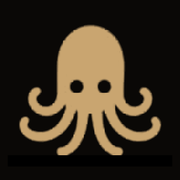
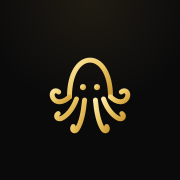
Restyle app: luxury gold, sharp type, floating buttons, new octopus mark
- Luxury gold (#EDC967) with metallic pill buttons and soft glow
- Inter Tight headings replace the serif; JetBrains Mono for labels
- Fine-line octopus logo (SVG) + spaced AYTOPUS wordmark; new app icons/favicons
- Floating glass bottom bar with a proof card tab
- Explore: floating search pill and segmented Members/Offers toggle
- Profile: payment-verified proof card under the name

Claude-Session: https://claude.ai/code/session_01SvkgXZEUx7UwqGcxiFyf4S

Changed region(s): [[0.0833, 0.1389, 0.9167, 0.8889]]

diff --git a/src/index.css b/src/index.css
@@ -2,21 +2,21 @@
 @tailwind components;
 @tailwind utilities;
 
-/* Aytopus design system — dark, editorial, gold accent */
+/* Aytopus design system — dark, sharp, luxury gold. Matches the proof cards. */
 
 @layer base {
   :root {
     /* Dark by default — :root and .dark are intentionally identical for v1 */
-    --background: 240 5% 6%;          /* #0F0F10 */
+    --background: 240 5% 4%;          /* #0A0A0B */
     --foreground: 40 20% 94%;         /* warm off-white */
 
-    --card: 240 4% 9%;                /* #161618 */
+    --card: 240 5% 8%;                /* #131315 */
     --card-foreground: 40 20% 94%;
 
     --popover: 240 5% 8%;
     --popover-foreground: 40 20% 94%;
 
-    --primary: 40 55% 52%;            /* burnished gold #C9A24A */
+    --primary: 44 79% 67%;            /* luxury gold #EDC967 */
     --primary-foreground: 240 6% 6%;
 
     --secondary: 240 4% 14%;
@@ -25,7 +25,7 @@
     --muted: 240 4% 12%;
     --muted-foreground: 40 8% 62%;
 
-    --accent: 40 55% 52%;
+    --accent: 44 79% 67%;
     --accent-foreground: 240 6% 6%;
 
     --destructive: 0 70% 48%;
@@ -33,9 +33,9 @@
 
     --border: 240 4% 16%;
     --input: 240 4% 14%;
-    --ring: 40 55% 52%;
+    --ring: 44 79% 67%;
 
-    --radius: 0.375rem;
+    --radius: 0.875rem;
 
     /* Tier metallic gradients */
     --tier-bronze-from: 25 55% 42%;
@@ -50,38 +50,39 @@
     --tier-diamond-to: 250 60% 55%;
 
     --shadow-elev: 0 1px 0 hsl(0 0% 100% / 0.03) inset, 0 8px 24px -12px hsl(0 0% 0% / 0.6);
-    --shadow-gold: 0 0 0 1px hsl(40 55% 52% / 0.35), 0 8px 30px -12px hsl(40 55% 52% / 0.35);
+    --shadow-gold: 0 0 0 1px hsl(44 79% 67% / 0.35), 0 8px 30px -12px hsl(44 79% 67% / 0.4);
+    --metal-gold: linear-gradient(135deg, #FBE7A6 0%, #EDC967 40%, #C8952F 100%);
 
     --sidebar-background: 240 5% 7%;
     --sidebar-foreground: 40 12% 80%;
-    --sidebar-primary: 40 55% 52%;
+    --sidebar-primary: 44 79% 67%;
     --sidebar-primary-foreground: 240 6% 6%;
     --sidebar-accent: 240 4% 12%;
     --sidebar-accent-foreground: 40 20% 94%;
     --sidebar-border: 240 4% 14%;
-    --sidebar-ring: 40 55% 52%;
+    --sidebar-ring: 44 79% 67%;
   }
 
   .dark {
-    --background: 240 5% 6%;
+    --background: 240 5% 4%;
     --foreground: 40 20% 94%;
-    --card: 240 4% 9%;
+    --card: 240 5% 8%;
     --card-foreground: 40 20% 94%;
     --popover: 240 5% 8%;
     --popover-foreground: 40 20% 94%;
-    --primary: 40 55% 52%;
+    --primary: 44 79% 67%;
     --primary-foreground: 240 6% 6%;
     --secondary: 240 4% 14%;
     --secondary-foreground: 40 20% 94%;
     --muted: 240 4% 12%;
     --muted-foreground: 40 8% 62%;
-    --accent: 40 55% 52%;
+    --accent: 44 79% 67%;
     --accent-foreground: 240 6% 6%;
     --destructive: 0 70% 48%;
     --destructive-foreground: 40 20% 96%;
     --border: 240 4% 16%;
     --input: 240 4% 14%;
-    --ring: 40 55% 52%;
+    --ring: 44 79% 67%;
   }
 }
 
@@ -113,8 +114,12 @@
     pointer-events: none;
   }
   h1, h2, h3, h4 {
-    font-family: 'Fraunces', 'Playfair Display', Georgia, serif;
-    letter-spacing: -0.01em;
+    font-family: 'Inter Tight', 'Inter', ui-sans-serif, system-ui, sans-serif;
+    letter-spacing: -0.02em;
+  }
+  body {
+    background-image: radial-gradient(ellipse 80% 40% at 50% -10%, hsl(42 35% 12% / 0.55), transparent 70%);
+    background-attachment: fixed;
   }
 
   /* iOS Safari zooms on focus when form-control font-size < 16px.

diff --git a/src/components/AppLayout.tsx b/src/components/AppLayout.tsx
@@ -1,7 +1,7 @@
 import { NavLink, useLocation, useNavigate } from "react-router-dom";
 import { ArrowLeft, Compass, MessagesSquare, User, LogIn, ShieldAlert, Store, Menu, Settings as SettingsIcon, Link as LinkIcon, UserCheck, LogOut, MessageCircle, FileText, Shield, Search, MessageSquare, MoreVertical, Share2, Bell, LifeBuoy } from "lucide-react";
 import { useAuth } from "@/hooks/useAuth";
-import { Logo } from "@/components/Logo";
+import { Logo, OctopusMark } from "@/components/Logo";
 import { cn } from "@/lib/utils";
 import { Button } from "@/components/ui/button";
 import { Sheet, SheetContent, SheetTrigger } from "@/components/ui/sheet";
@@ -373,7 +373,7 @@ export default function AppLayout({ children }: { children: ReactNode }) {
         aria-label="Primary"
         style={{ bottom: "calc(env(safe-area-inset-bottom) + 1rem)" }}
         className={cn(
-          "fixed inset-x-0 z-40 mx-auto flex w-[min(92vw,360px)] items-center justify-around rounded-full border border-white/5 bg-background/70 px-2 py-2 shadow-[0_10px_40px_-10px_hsl(0_0%_0%/0.7)] backdrop-blur-xl md:hidden",
+          "fixed inset-x-0 z-40 mx-auto flex w-[min(92vw,340px)] items-center justify-around rounded-full border border-white/[0.12] bg-[#161618]/80 px-3 py-2 shadow-[0_18px_40px_-10px_rgba(0,0,0,0.75)] backdrop-blur-2xl md:hidden",
           (inOpenConversation || isSubmitReview) && "hidden",
         )}
       >
@@ -381,6 +381,7 @@ export default function AppLayout({ children }: { children: ReactNode }) {
           const mobileTabs = [
             { to: "/messages", label: "Messages", icon: MessageSquare, authOnly: true, kind: "icon" as const },
             { to: "/explore", label: "Search", icon: Search, end: true, kind: "icon" as const },
+            { to: "/settings/proof", label: "Proof card", authOnly: true, kind: "mark" as const },
             { to: user ? profilePath : "/auth", label: "Profile", kind: "avatar" as const },
           ].filter((t) => !(t.authOnly && !user));
 
@@ -399,8 +400,8 @@ export default function AppLayout({ children }: { children: ReactNode }) {
             >
               {({ isActive }) => (
                 <>
-                  {isActive && tab.kind === "icon" && (
-                    <span className="absolute inset-1 rounded-full bg-primary/15" aria-hidden />
+                  {isActive && tab.kind !== "avatar" && (
+                    <span className="absolute bottom-0.5 left-1/2 h-1 w-1 -translate-x-1/2 rounded-full bg-primary" aria-hidden />
                   )}
                   {tab.kind === "avatar" ? (
                     <span
@@ -415,6 +416,8 @@ export default function AppLayout({ children }: { children: ReactNode }) {
                         <span>{(profile?.username ?? "?").slice(0, 1)}</span>
                       )}
                     </span>
+                  ) : tab.kind === "mark" ? (
+                    <OctopusMark className="relative h-[26px] w-[26px]" strokeWidth={5} />
                   ) : (
                     <tab.icon className="relative h-[22px] w-[22px]" strokeWidth={1.75} />
                   )}

diff --git a/src/pages/Explore.tsx b/src/pages/Explore.tsx
@@ -291,13 +291,13 @@ export default function Explore() {
       {/* Search */}
       <div ref={searchBoxRef} className="relative mx-auto max-w-2xl">
         <form onSubmit={onSearch} className="relative">
-          <Search className="pointer-events-none absolute left-3 top-1/2 h-4 w-4 -translate-y-1/2 text-muted-foreground" />
+          <Search className="pointer-events-none absolute left-5 top-1/2 h-4 w-4 -translate-y-1/2 text-muted-foreground" />
           <Input
             value={query}
             onChange={(e) => { setQuery(e.target.value); setLiveOpen(true); }}
             onFocus={() => { if (query.trim().length > 0) setLiveOpen(true); }}
             placeholder="Search coaches, providers, and offers..."
-            className="h-12 pl-9"
+            className="h-[52px] rounded-full border-white/[0.12] bg-card pl-12 pr-5 shadow-[0_12px_30px_-8px_rgba(0,0,0,0.6)]"
             aria-label="Search coaches, providers, and offers"
             autoComplete="off"
           />
@@ -375,7 +375,7 @@ export default function Explore() {
       </div>
 
       {/* Sub-tabs: People / Offers */}
-      <div className="mx-auto mt-4 flex max-w-2xl items-center justify-center gap-1 border-b border-border">
+      <div className="mx-auto mt-4 flex max-w-sm items-center gap-1 rounded-full border border-white/[0.08] bg-card p-1">
         <TopTab active={subTab === "people"} onClick={() => setSubTab("people")} label="People" />
         <TopTab active={subTab === "offers"} onClick={() => setSubTab("offers")} label="Offers" />
       </div>
@@ -491,12 +491,13 @@ function TopTab({ active, onClick, label }: { active: boolean; onClick: () => vo
       onClick={onClick}
       aria-pressed={active}
       className={cn(
-        "relative -mb-px px-5 py-2.5 text-sm font-semibold transition-colors",
-        active ? "text-primary" : "text-muted-foreground hover:text-foreground",
+        "h-9 flex-1 rounded-full text-sm font-semibold transition-colors",
+        active
+          ? "border border-primary/35 bg-primary/[0.12] text-primary"
+          : "border border-transparent text-muted-foreground hover:text-foreground",
       )}
     >
-      <span className="font-display tracking-wide">{label}</span>
-      {active && <span aria-hidden className="absolute inset-x-2 -bottom-px h-[2px] bg-primary" />}
+      <span className="font-display">{label}</span>
     </button>
   );
 }

diff --git a/src/components/ui/button.tsx b/src/components/ui/button.tsx
@@ -5,21 +5,23 @@ import { cva, type VariantProps } from "class-variance-authority";
 import { cn } from "@/lib/utils";
 
 const buttonVariants = cva(
-  "inline-flex items-center justify-center gap-2 whitespace-nowrap rounded-md text-sm font-medium ring-offset-background transition-colors focus-visible:outline-none focus-visible:ring-2 focus-visible:ring-ring focus-visible:ring-offset-2 disabled:pointer-events-none disabled:opacity-50 [&_svg]:pointer-events-none [&_svg]:size-4 [&_svg]:shrink-0",
+  "inline-flex items-center justify-center gap-2 whitespace-nowrap rounded-full text-sm font-medium ring-offset-background transition-all active:translate-y-px focus-visible:outline-none focus-visible:ring-2 focus-visible:ring-ring focus-visible:ring-offset-2 disabled:pointer-events-none disabled:opacity-50 [&_svg]:pointer-events-none [&_svg]:size-4 [&_svg]:shrink-0",
   {
     variants: {
       variant: {
-        default: "bg-primary text-primary-foreground hover:bg-primary/90",
+        default:
+          "bg-[linear-gradient(135deg,#FBE7A6_0%,#EDC967_40%,#C8952F_100%)] font-semibold text-[#0A0A0B] shadow-[0_8px_24px_-8px_rgba(237,201,103,0.5)] hover:brightness-105 hover:shadow-[0_10px_30px_-8px_rgba(237,201,103,0.6)]",
         destructive: "bg-destructive text-destructive-foreground hover:bg-destructive/90",
-        outline: "border border-input bg-background hover:bg-accent hover:text-accent-foreground",
-        secondary: "bg-secondary text-secondary-foreground hover:bg-secondary/80",
-        ghost: "hover:bg-accent hover:text-accent-foreground",
+        outline:
+          "border border-white/[0.12] bg-white/[0.03] text-foreground shadow-[0_8px_24px_-12px_rgba(0,0,0,0.7)] backdrop-blur hover:border-white/20 hover:bg-white/[0.06]",
+        secondary: "border border-white/[0.06] bg-secondary text-secondary-foreground hover:bg-secondary/80",
+        ghost: "hover:bg-white/[0.06] hover:text-foreground",
         link: "text-primary underline-offset-4 hover:underline",
       },
       size: {
-        default: "h-10 px-4 py-2",
-        sm: "h-9 rounded-md px-3",
-        lg: "h-11 rounded-md px-8",
+        default: "h-11 px-5 py-2",
+        sm: "h-9 rounded-full px-4",
+        lg: "h-12 rounded-full px-8 text-[15px]",
         icon: "h-10 w-10",
       },
     },

diff --git a/src/components/Logo.tsx b/src/components/Logo.tsx
@@ -1,13 +1,31 @@
 import { cn } from "@/lib/utils";
-import logoUrl from "@/assets/aytopus-logo.png";
 
-export function Logo({ className }: { className?: string }) {
+/** The Aytopus octopus, redrawn as a fine-line mark to match the proof card's security pattern. */
+export function OctopusMark({ className, strokeWidth = 4.2 }: { className?: string; strokeWidth?: number }) {
   return (
-    <img
-      src={logoUrl}
-      alt="Aytopus"
-      className={cn("h-7 w-auto md:h-9 select-none", className)}
-      draggable={false}
-    />
+    <svg viewBox="0 0 100 100" className={className} aria-hidden="true">
+      <g fill="none" stroke="currentColor" strokeWidth={strokeWidth} strokeLinecap="round" strokeLinejoin="round">
+        <path d="M31 53 C31 31 40 19 50 19 C60 19 69 31 69 53" />
+        <path d="M31 53 C25 59 18 59 15.5 53.5 C13.5 49 17.5 45.5 21 48.5" />
+        <path d="M37.5 55 C34 65 28 71 23.5 73 C19.5 74.5 17.5 70.5 20.5 68.5" />
+        <path d="M45 56 C44 67 42 77 38 83 C36 86 32.5 84 34.5 80.5" />
+        <path d="M55 56 C56 67 58 77 62 83 C64 86 67.5 84 65.5 80.5" />
+        <path d="M62.5 55 C66 65 72 71 76.5 73 C80.5 74.5 82.5 70.5 79.5 68.5" />
+        <path d="M69 53 C75 59 82 59 84.5 53.5 C86.5 49 82.5 45.5 79 48.5" />
+      </g>
+      <circle cx="43.5" cy="44" r="2.8" fill="currentColor" />
+      <circle cx="56.5" cy="44" r="2.8" fill="currentColor" />
+    </svg>
+  );
+}
+
+export function Logo({ className, wordmark = true }: { className?: string; wordmark?: boolean }) {
+  return (
+    <span role="img" aria-label="Aytopus" className={cn("flex w-fit select-none items-center gap-2", className)}>
+      <OctopusMark className="h-7 w-7 text-primary md:h-8 md:w-8" />
+      {wordmark && (
+        <span className="mr-[-0.34em] text-[13px] font-bold tracking-[0.34em] text-foreground md:text-sm">AYTOPUS</span>
+      )}
+    </span>
   );
 }

diff --git a/index.html b/index.html
@@ -5,7 +5,7 @@
     <meta name="viewport" content="width=device-width, initial-scale=1.0, viewport-fit=cover" />
 <title>Aytopus – Your testimonials, verified.    </title><meta name="description" content="Free for coaches and service providers. Send one link, clients leave a review, and Aytopus verifies they actually paid you." />
     <meta name="author" content="Aytopus" />
-    <meta name="theme-color" content="#0F0F10" />
+    <meta name="theme-color" content="#0A0A0B" />
     <meta name="apple-mobile-web-app-capable" content="yes" />
     <meta name="apple-mobile-web-app-status-bar-style" content="black-translucent" />
     <meta name="mobile-web-app-capable" content="yes" />
@@ -36,7 +36,7 @@
 
     <link rel="preconnect" href="https://fonts.googleapis.com" />
     <link rel="preconnect" href="https://fonts.gstatic.com" crossorigin />
-    <link href="https://fonts.googleapis.com/css2?family=Fraunces:ital,opsz,wght@0,9..144,400;0,9..144,500;0,9..144,600;0,9..144,700;0,9..144,800;0,9..144,900;1,9..144,400;1,9..144,500&family=Inter:wght@300;400;500;600;700&display=swap" rel="stylesheet" />
+    <link href="https://fonts.googleapis.com/css2?family=Inter:wght@300;400;500;600;700&family=Inter+Tight:wght@400;500;600;700&family=JetBrains+Mono:wght@400;500&display=swap" rel="stylesheet" />
   </head>
 
   <body>

diff --git a/src/components/ProfileScoreCard.tsx b/src/components/ProfileScoreCard.tsx
@@ -1,0 +1,30 @@
+// Shows a coach's payment-verified proof card on their profile, if they have a public one.
+// Tapping it opens the full record at /v/:slug.
+import { useEffect, useState } from "react";
+import { useNavigate } from "react-router-dom";
+import { ProofScoreCard } from "@/components/ProofScoreCard";
+import { proofDb } from "@/lib/proof";
+import type { ProofCard } from "@/lib/proofScore";
+
+export function ProfileScoreCard({ ownerId, name, subtitle }: { ownerId: string; name: string; subtitle?: string | null }) {
+  const [card, setCard] = useState<ProofCard | null>(null);
+  const navigate = useNavigate();
+
+  useEffect(() => {
+    let cancelled = false;
+    (async () => {
+      const { data } = await proofDb.from("proof_cards").select("*").eq("owner_id", ownerId).eq("visibility", "public").maybeSingle();
+      if (!cancelled) setCard((data as ProofCard) ?? null);
+    })();
+    return () => {
+      cancelled = true;
+    };
+  }, [ownerId]);
+
+  if (!card) return null;
+  return (
+    <div className="mx-auto mt-5 flex max-w-[360px] justify-center">
+      <ProofScoreCard card={card} name={name} subtitle={subtitle} onToggle={() => navigate(`/v/${card.slug}`)} />
+    </div>
+  );
+}

diff --git a/src/pages/Profile.tsx b/src/pages/Profile.tsx
@@ -1,4 +1,5 @@
 import { useEffect, useMemo, useRef, useState } from "react";
+import { ProfileScoreCard } from "@/components/ProfileScoreCard";
 import { Link, useParams, useSearchParams } from "react-router-dom";
 import { usePageMeta } from "@/lib/usePageMeta";
 import { supabase } from "@/integrations/supabase/client";
@@ -481,6 +482,9 @@ export default function Profile() {
           @{profile.username}
         </p>
 
+        {/* Payment-verified proof card */}
+        <ProfileScoreCard ownerId={profile.id} name={providerDisplayName} subtitle={profile.service_category} />
+
 
 
         {/* Owner-only points progress */}
@@ -542,7 +546,7 @@ export default function Profile() {
 
 
         {/* Trust card — 3 stats */}
-        <div className="mt-5 grid grid-cols-3 items-center gap-2 rounded-lg border border-primary/30 bg-card/60 px-2 py-4 sm:px-4">
+        <div className="mt-5 grid grid-cols-3 items-center gap-2 rounded-2xl border border-white/[0.08] bg-card px-2 py-4 shadow-[0_12px_30px_-12px_rgba(0,0,0,0.6)] sm:px-4">
           <TrustStat
             value={avg > 0 ? avg.toFixed(1) : "—"}
             label="Avg rating"

diff --git a/tailwind.config.ts b/tailwind.config.ts
@@ -8,7 +8,8 @@ export default {
     container: { center: true, padding: "1.5rem", screens: { "2xl": "1400px" } },
     extend: {
       fontFamily: {
-        display: ["Fraunces", "Playfair Display", "Georgia", "serif"],
+        display: ["Inter Tight", "Inter", "ui-sans-serif", "system-ui", "sans-serif"],
+        mono: ["JetBrains Mono", "ui-monospace", "SFMono-Regular", "monospace"],
         sans: ["Inter", "ui-sans-serif", "system-ui", "sans-serif"],
       },
       colors: {

diff --git a/src/components/ProofScoreCard.tsx b/src/components/ProofScoreCard.tsx
@@ -6,7 +6,7 @@ import { TIERS, pointsToNextTier, timeAgo, visibleStats } from "@/lib/proofScore
 
 const INK = "#F2F1EC";
 const MUTED = "#8C948F";
-const ACCENT = "#5BE3A4";
+const ACCENT = "#5BE3A4"; // live/verified signal stays mint everywhere
 const CARD_BG = "#0C0E0D";
 const MONO = "ui-monospace, SFMono-Regular, Menlo, monospace";
 
